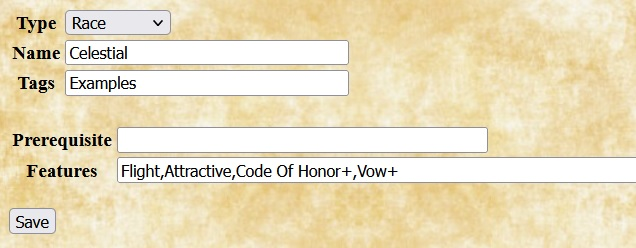
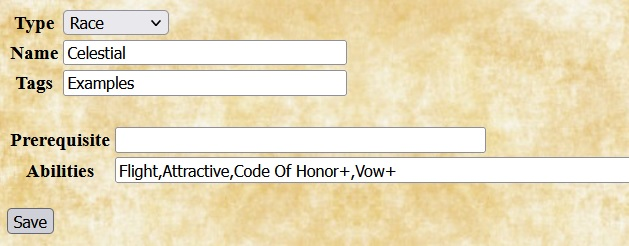
Add doc for homebrew eras, switch to referencing "Racial Abilities", and express weapon range in terms of gride inches rather than yards.

diff --git a/plugins/homebrew-swade.html b/plugins/homebrew-swade.html
@@ -86,7 +86,7 @@ arcane skill and provides access to a limited set of powers.
 </td><td>
 <p>
 When entering a homebrew armor type, Quilvyn provides fields that allow you to
-enter the (optional) list of eras (Ancient, Medieval, Modern, and Future)
+enter the optional list of eras (Ancient, Medieval, Modern, and Future)
 appropriate for the armor, the body areas that the armor covers (one or more of
 arms, body (torso, arms, and legs), head, legs, and torso), the toughness bonus
 provided by the armor, the minimum strength required to wear it, and the
@@ -149,12 +149,27 @@ feature that describes the effect of selecting the Flail Expert edge.
 
 <tr><td colspan="2"><hr/></td></tr>
 <tr><td>
+<a name="era"><h2>Eras</h2></a>
+<img src='../Images/shb-era.jpg' alt='Homebrew Era'/>
+</td><td>
+<p>
+Adding a homebrew era requires only specifying the name, although you will
+likely want to also add weapons, and perhaps armor and skills, that are
+particular to that era.
+</p><p>
+The example shows the entry for the Victorian era, which might be useful when
+running a game based on Jules Verne's novels.
+</p>
+</td></tr>
+
+<tr><td colspan="2"><hr/></td></tr>
+<tr><td>
 <a name="feature"><h2>Features</h2></a>
 <img src='../Images/shb-feature.jpg' alt='Homebrew Feature'/>
 </td><td>
 <p>
 In Quilvyn, <i>features</i> describe the effects of edges, hindrances, and
-racial features. When adding a homebrew feature, enter the section of the
+racial abilities. When adding a homebrew feature, enter the section of the
 character sheet (one of arcana, attribute, combat, description, feature, or
 skill) where the note for the feature should appear, then enter the note text.
 You can enter multiple sections and notes, but the number of sections entered
@@ -214,10 +229,10 @@ additional 2 power points for multiple traits.
 <img src='../Images/shb-race.jpg' alt='Homebrew Race'/>
 </td><td>
 <p>
-For homebrew races, Quilvyn provides a field for listing the features (both
-positive features and hindrances) associated with the race. Quilvyn also allows
-you to specify prerequisites for homebrew races; for example, you might want to
-define a race that has a minimum strength requirement.
+For homebrew races, Quilvyn provides a field for listing the racial abilities
+associated with the race. Quilvyn also allows you to specify prerequisites for
+homebrew races; for example, you might want to define a race that has a minimum
+strength requirement.
 </p><p>
 The example shows the entry for the Celestial race, taken from the ancestries
 in the SWADE Fantasy Companion.
@@ -231,9 +246,9 @@ in the SWADE Fantasy Companion.
 <img src='../Images/shb-shield.jpg' alt='Homebrew Shield'/>
 </td><td>
 <p>
-When adding a homebrew shield, Quilvyn provides fields for entering the eras
-to which it belongs, the Parry and Cover values provided by the shield, the
-minimum strength required to use it, and its weight.
+When adding a homebrew shield, Quilvyn provides fields for entering the
+optional list of eras appropriate for the shield, the Parry and Cover values it
+provides, the minimum strength required to use it, and its weight.
 </p><p>
 The example shows the entry for a medium steel shield, which provides a greater
 parry value than a standard medium shield at the cost of requiring a higher
@@ -247,10 +262,10 @@ strength to use it.
 <img src='../Images/shb-skill.jpg' alt='Homebrew Skill'/>
 </td><td>
 <p>
-When adding a homebrew skill, Quilvyn displays fields for the (optional) eras
-to which it belongs and the the skill's linked attribute. You can also check
-the "Core" box to indicate that this homebrew skill is a core skill, which
-means that all characters will automatically have a d4 in the skill.
+When adding a homebrew skill, Quilvyn displays fields for the optional list of
+eras appropriate for the skill and for the skill's linked attribute. You can
+also check the "Core" box to indicate that this homebrew skill is a core skill,
+which means that all characters will automatically have a d4 in the skill.
 </p><p>
 The example shows the entry for an Appraise skill, linked to Smarts.
 </p>
@@ -263,10 +278,10 @@ The example shows the entry for an Appraise skill, linked to Smarts.
 </td><td>
 <p>
 When adding a homebrew weapon, Quilvyn displays fields that allow you to enter
-the (optional) eras to which it belongs, its primary category (Unarmed,
-One-Handed, Two-Handed, or Ranged), the damage it inflicts, the minimum 
-strength required to use it effectively, its weight, and any armor piercing,
-range, rate of fire, and parry attributes it might have.
+the optional list of eras appropriate for the weapon, its primary category
+(Unarmed, One-Handed, Two-Handed, or Ranged), the damage it inflicts, the
+minimum strength required to use it effectively, its weight, and any armor
+piercing, range, rate of fire, and parry attributes it might have.
 </p><p>
 The example shows the entry for a boomerang, a ranged weapon with a 5" (10
 yard) range that inflicts Str+d4 damage.
